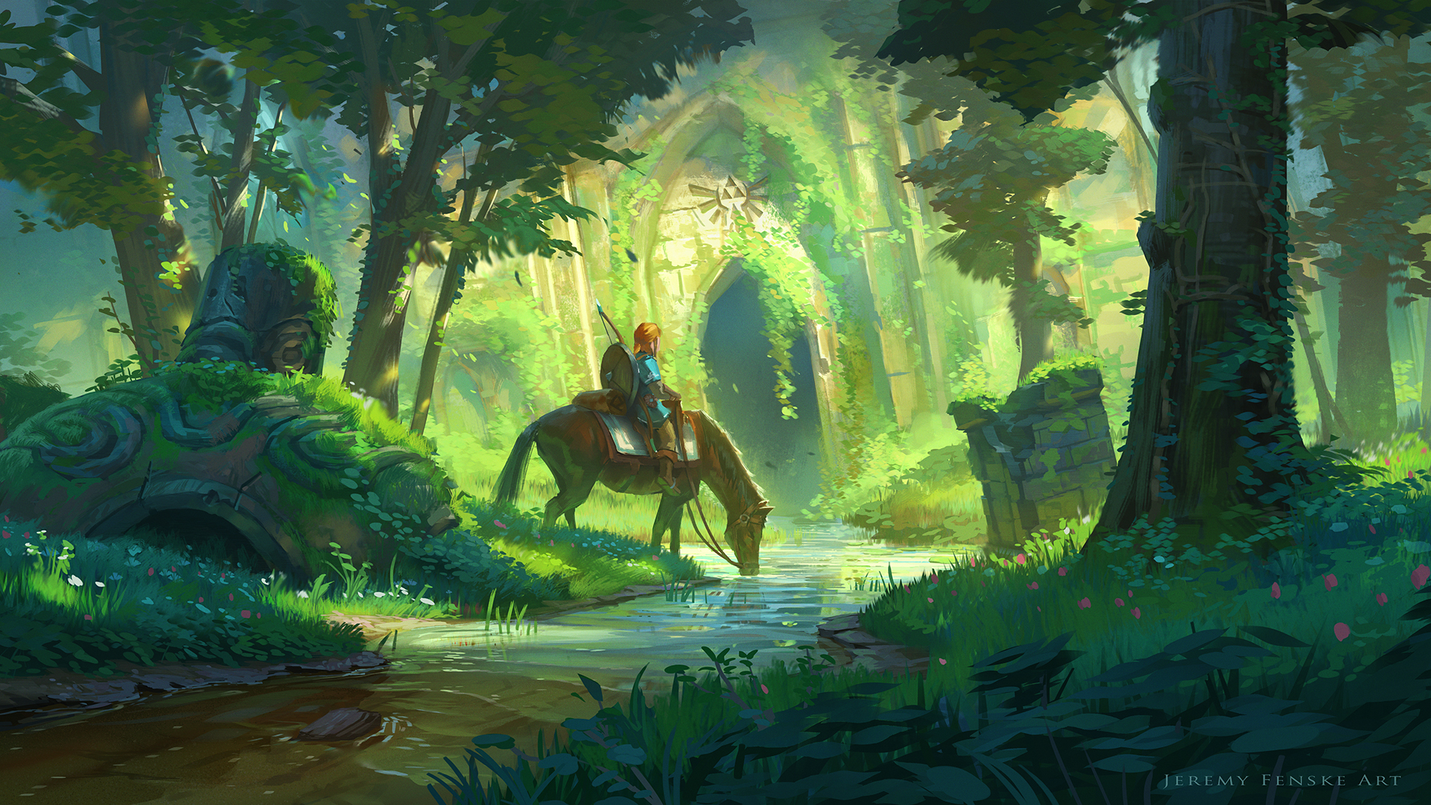
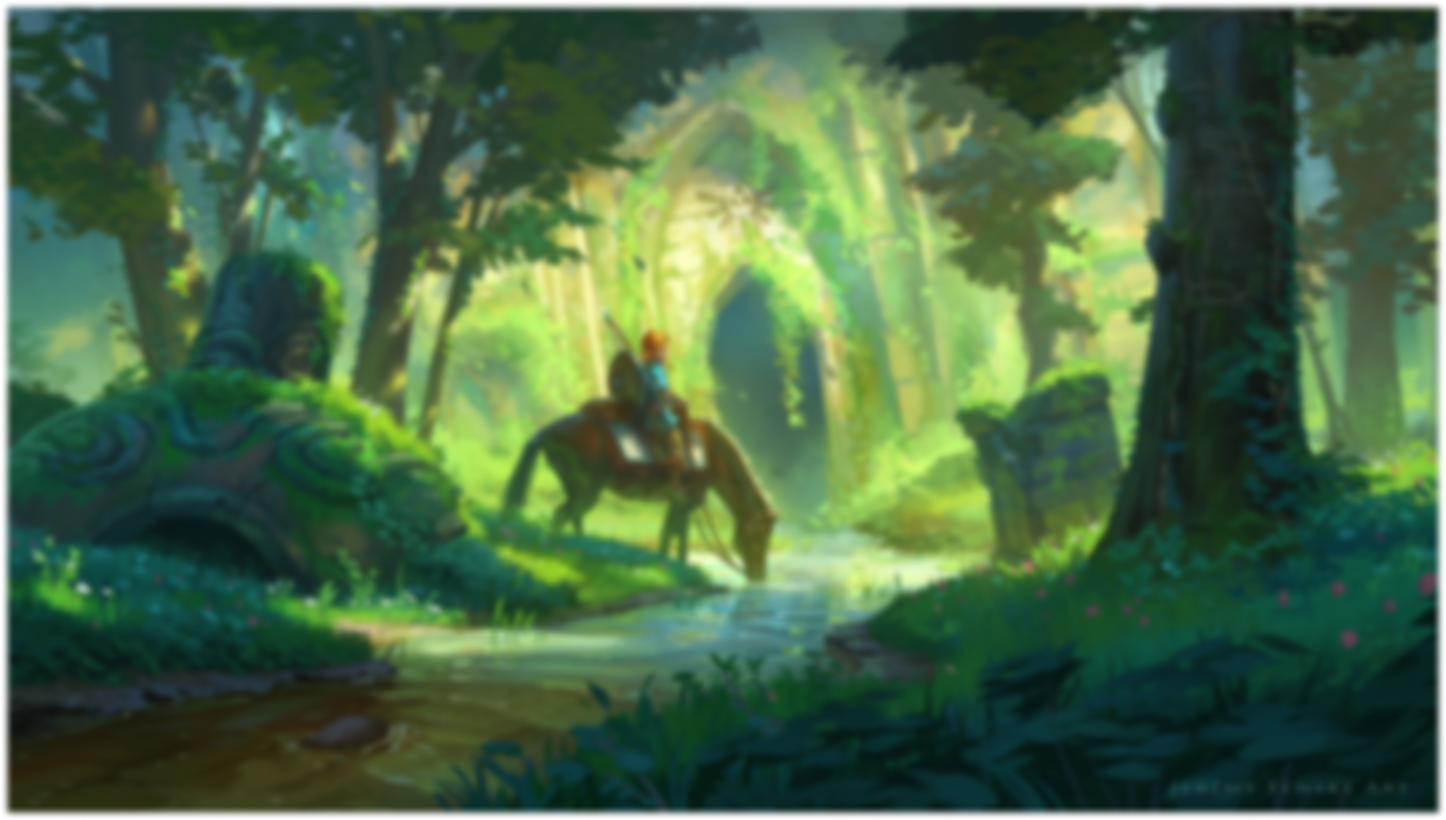
Correct background

diff --git a/css/style.css b/css/style.css
@@ -1,13 +1,95 @@
 @import url('https://fonts.googleapis.com/css2?family=Press+Start+2P&family=Quicksand&display=swap');
 
+/*Обнуление стилей css*/
+/* Указываем box sizing */
+*,
+*::before,
+*::after {
+  box-sizing: border-box;
+}
+
+/* Убираем внутренние отступы */
+ol[class] {
+  padding: 0;
+}
+
+/* Убираем внешние отступы */
+body,
+h1,
+h2,
+h3,
+h4,
+p,
+ol[class],
+figure,
+figcaption,
+blockquote,
+dl,
+dd {
+  margin: 0;
+}
+
+/* Выставляем основные настройки по-умолчанию для body */
+body {
+  min-height: 100vh;
+  scroll-behavior: smooth;
+  text-rendering: optimizeSpeed;
+  line-height: 1.5;
+}
+
+/* Удаляем стандартную стилизацию для всех ul и il, у которых есть атрибут class*/
+ol[class] {
+  list-style: none;
+}
+
+/* Элементы a, у которых нет класса, сбрасываем до дефолтных стилей */
+a:not([class]) {
+  text-decoration-skip-ink: auto;
+}
+
+/* Упрощаем работу с изображениями */
+img {
+  max-width: 100%;
+  display: block;
+}
+
+/* Указываем понятную периодичность в потоке данных у article*/
+article > * + * {
+  margin-top: 1em;
+}
+
+/* Наследуем шрифты для инпутов и кнопок */
+input,
+button,
+textarea,
+select {
+  font: inherit;
+}
+
+/* Удаляем все анимации и переходы для людей, которые предпочитай их не использовать */
+@media (prefers-reduced-motion: reduce) {
+  * {
+    animation-duration: 0.01ms !important;
+    animation-iteration-count: 1 !important;
+    transition-duration: 0.01ms !important;
+    scroll-behavior: auto !important;
+  }
+}
+
+/*/Обнуление стилей css*/
+
+
+
 /*main*/
 body {
     position: relative;
-    width: auto;
-    height: auto;
-    margin-left: auto;
-    margin-right: auto;
-    background: #629b43;
+    width: 100%;
+    height: 100%;
+    background-image: url("../recources/BackGround.png");
+    background-attachment: fixed;
+    background-position-x: 20%;
+    background-position-y: 40%;
+    background-repeat: no-repeat;
 }
 
 header {
@@ -119,7 +201,7 @@ footer {
 
 .footerBlock {
     position: absolute;
-    width: 1519px;
+    width: 100%;
     height: 170px;
     left: 0px;
     top: 66px;
@@ -132,7 +214,7 @@ footer {
     width: 333px;
     height: 241px;
     left: 14px;
-    top: 200px;
+    top: 150px;
 }
 
 .swordsAndShovelsBlock {
@@ -151,7 +233,7 @@ footer {
     width: 853.71px;
     height: 48px;
     left: 69.57px;
-    top: 20px;
+    top: 30px;
 
     font-family: 'Press Start 2P', cursive;
     font-style: normal;
@@ -184,7 +266,7 @@ footer {
     width: 769.99px;
     height: 150px;
     left: 95px;
-    top: 140px;
+    top: 170px;
 
     font-family: 'Quicksand', sans-serif;
     font-style: normal;
@@ -218,7 +300,7 @@ q {
     width: 252px;
     height: 18px;
     left: 650px;
-    bottom: -5px;
+    bottom: 15px;
 
     font-family: 'Press Start 2P', cursive;
     font-style: normal;
@@ -308,9 +390,8 @@ li {
     color: #2D4D37;
 }
 
-
-
 .animalPre {
+    
     font-size: 10px;
     text-align: center;
     color: #2D4D37;
@@ -338,7 +419,7 @@ li {
     width: 704px;
     height: 155px;
     left: 32px;
-    top: 612px;
+    top: 670px;
 
     font-family: 'Quicksand', sans-serif;
     font-style: normal;

diff --git a/src/main/index.html b/src/main/index.html
@@ -143,5 +143,6 @@
                 </nav>
             </section>
         </footer>
+
     </body>
 </html>
